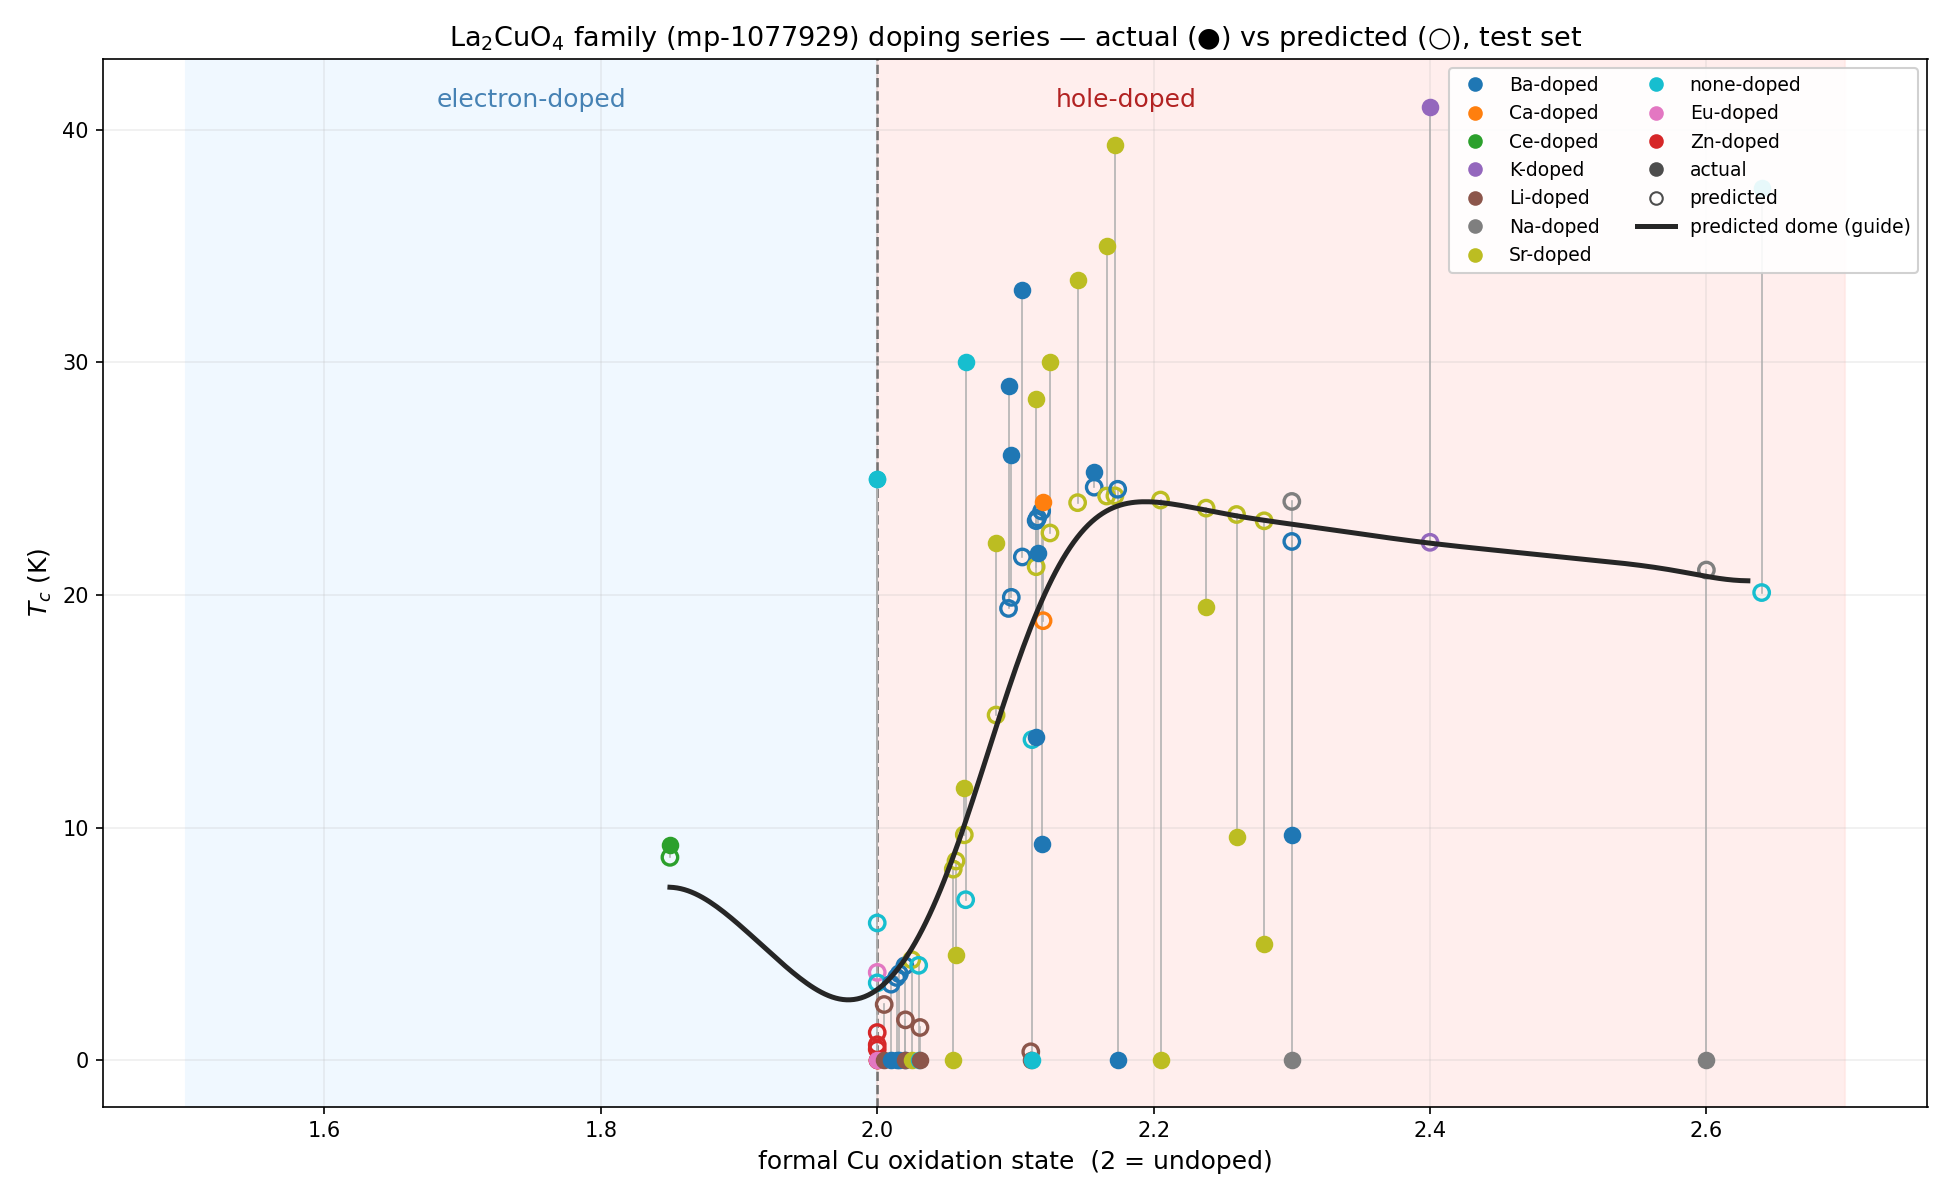
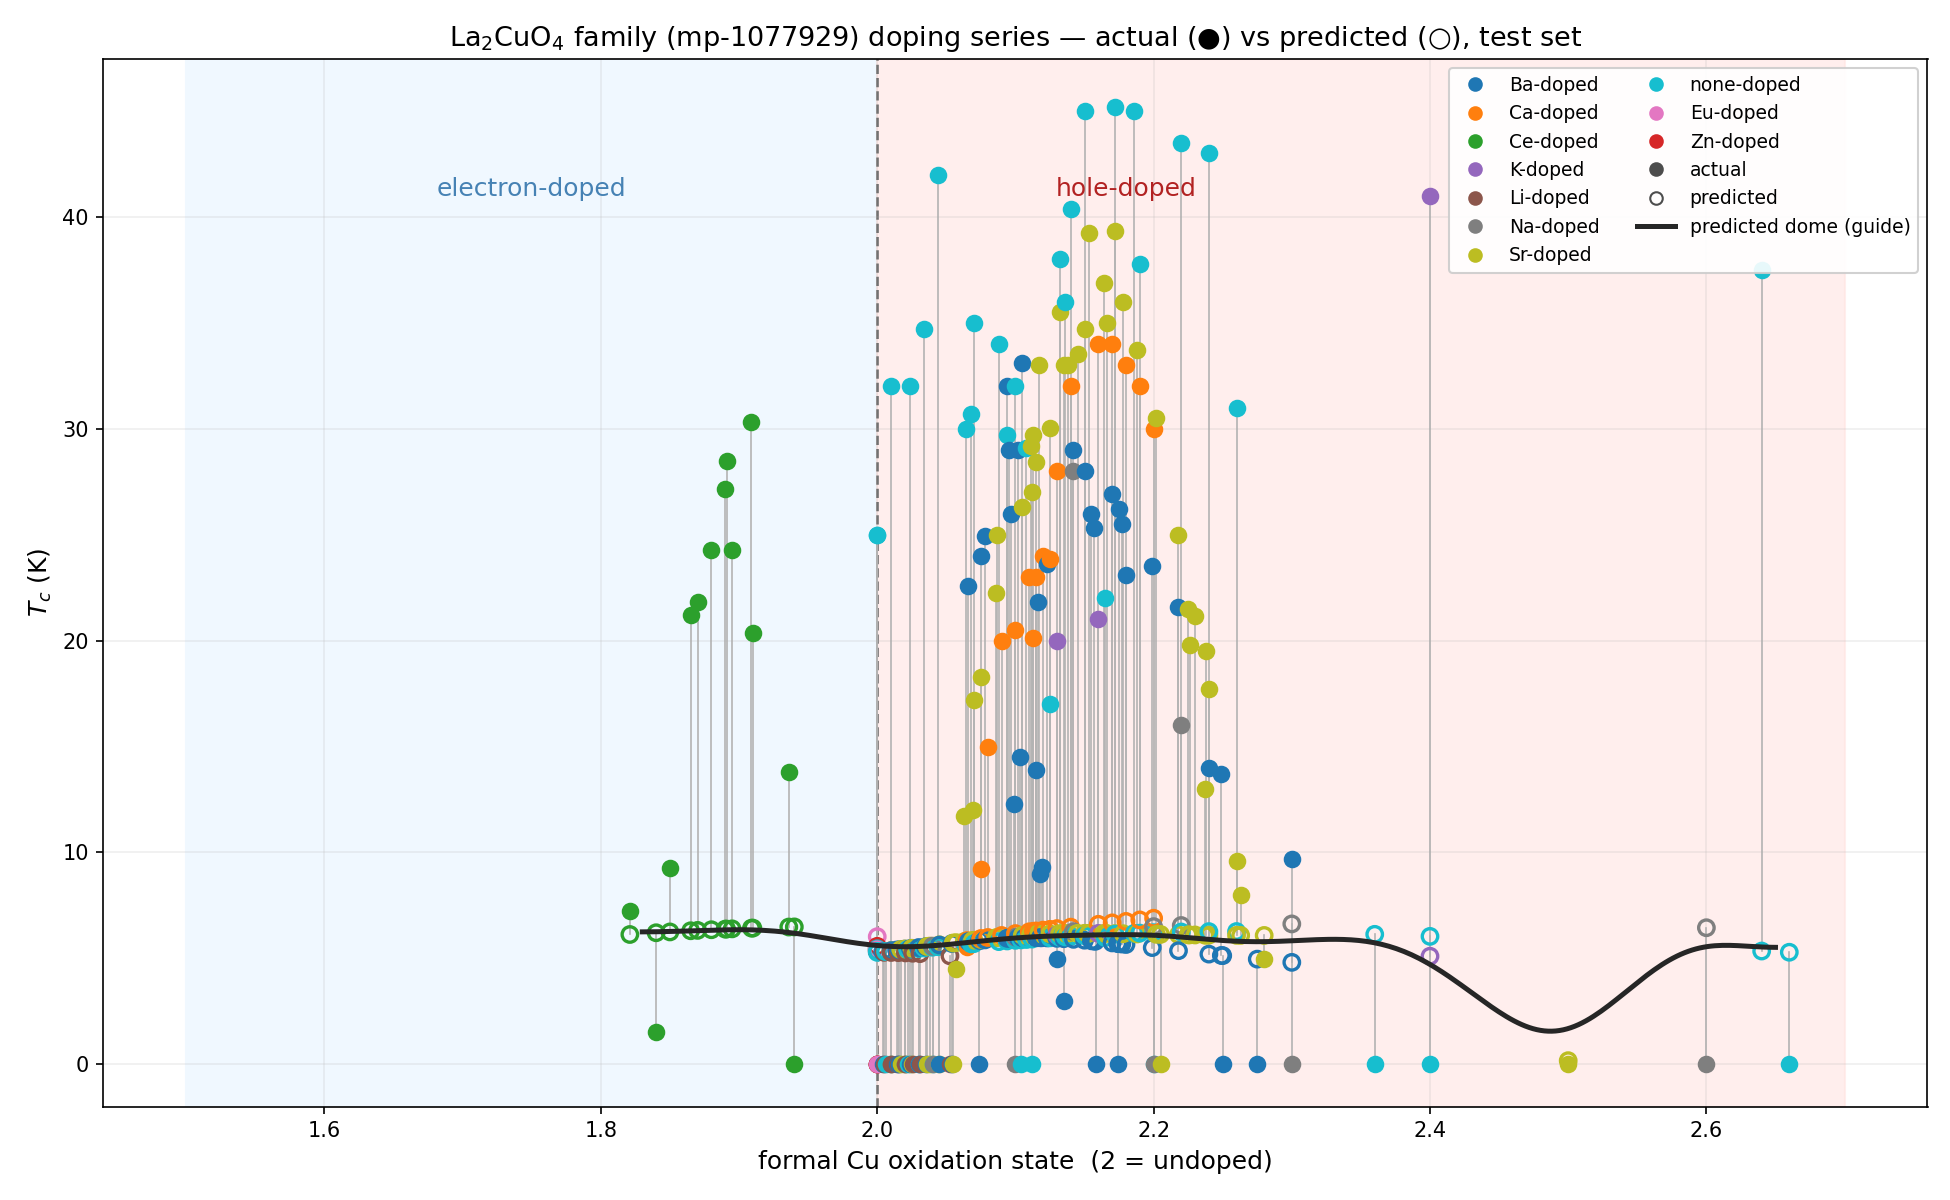
docs(figures): archive scrambled-split dome plots; regenerate from the true holdout
All six mp-1077929 dome/oxidation figures moved to
docs/figures/scrambled_split_archive/ (README explains: pre-f02f8b3 FineTune
runs had chance-level fold membership, so their 'held-out LSCO family' premise
was void and the dome amplitude leak-inflated).

Replacement tc_vs_cu_oxidation_mp1077929_dome.png is regenerated from the
true 191-row Cu1La2 family holdout (gps_tc_v4_lsco_holdout_2026-07-14): the
zero-shot predictions show the honest result — dome SHAPE present (bin-mean
r=0.875 vs formal Cu oxidation) at strongly compressed amplitude (~1 K swing
vs the actual ~25 K).

diff --git a/docs/figures/scrambled_split_archive/README.md b/docs/figures/scrambled_split_archive/README.md
@@ -1,0 +1,15 @@
+# ⚠ Archived: figures from scrambled-split runs (pre-2026-07-14)
+
+Every figure here was generated from FineTune predictions produced BEFORE the
+positional split fix (`48f099d`): CIFDataV4 seed-shuffles rows at load, but
+loader positions were computed in index order, so actual train/test membership
+was chance-level relative to the intended parent-grouped split. In particular,
+the "held-out LSCO family" premise behind these dome plots did not hold — LSCO
+variants were partly trained on, and the apparent dome amplitude is
+leak-inflated.
+
+Valid replacement: `../tc_vs_cu_oxidation_mp1077929_dome.png`, regenerated from
+the true 191-row Cu1La2 family holdout (run gps_tc_v4_lsco_holdout_2026-07-14):
+the dome SHAPE reproduces zero-shot (bin-mean r=0.875 vs formal Cu oxidation,
+optimum at the correct doping) but with strongly compressed amplitude (~1 K
+predicted swing vs ~25 K true) — the scale, not the shape, was the leaked part.
